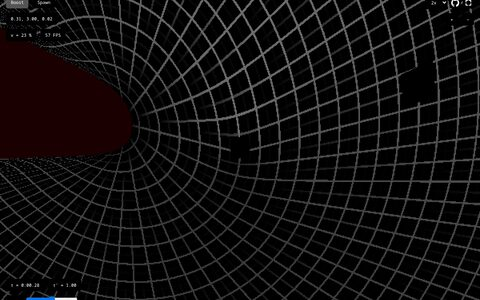
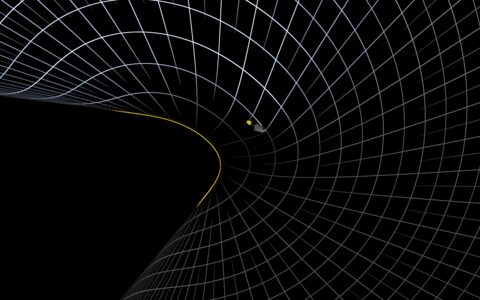
Add Parking Simulator, move General Relativity up, new GR thumbnail

diff --git a/index.html b/index.html
@@ -83,19 +83,27 @@
       </div>
     </li>
     <li>
-      <a class="thumb" href="https://potocpav.github.io/climbing-model/" tabindex="-1" aria-hidden="true"><img src="thumbs/climbing-model.jpg" alt="" width="480" height="300" loading="lazy"></a>
-      <div>
-        <h2><a href="https://potocpav.github.io/climbing-model/">Simple Climber Model</a></h2>
-        <p>An interactive app that shows the forces acting on a climber.</p>
-        <div class="meta"><a href="https://github.com/potocpav/climbing-model">source</a></div>
-      </div>
-    </li>
-    <li>
       <a class="thumb" href="https://potocpav.github.io/general-relativity/" tabindex="-1" aria-hidden="true"><img src="thumbs/general-relativity.jpg" alt="" width="480" height="300" loading="lazy"></a>
       <div>
         <h2><a href="https://potocpav.github.io/general-relativity/">General Relativity Playground</a></h2>
         <p>An interactive general relativity playground in 2+1 dimensions.</p>
         <div class="meta"><a href="https://github.com/potocpav/general-relativity">source</a></div>
+      </div>
+    </li>
+    <li>
+      <a class="thumb" href="https://potocpav.github.io/parking-simulator/" tabindex="-1" aria-hidden="true"><img src="thumbs/parking-simulator.jpg" alt="" width="480" height="300" loading="lazy"></a>
+      <div>
+        <h2><a href="https://potocpav.github.io/parking-simulator/">Parking Simulator</a></h2>
+        <p>Practice parking a car in tight spots. Vibe-coded in a couple of hours.</p>
+        <div class="meta"><a href="https://github.com/potocpav/parking-simulator">source</a></div>
+      </div>
+    </li>
+    <li>
+      <a class="thumb" href="https://potocpav.github.io/climbing-model/" tabindex="-1" aria-hidden="true"><img src="thumbs/climbing-model.jpg" alt="" width="480" height="300" loading="lazy"></a>
+      <div>
+        <h2><a href="https://potocpav.github.io/climbing-model/">Simple Climber Model</a></h2>
+        <p>An interactive app that shows the forces acting on a climber.</p>
+        <div class="meta"><a href="https://github.com/potocpav/climbing-model">source</a></div>
       </div>
     </li>
     <li>
